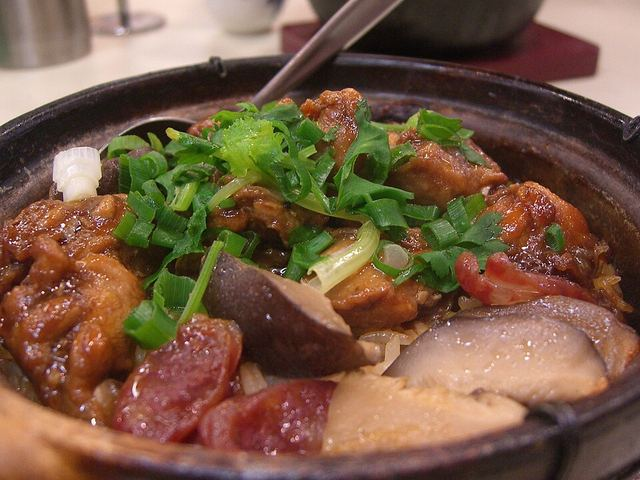
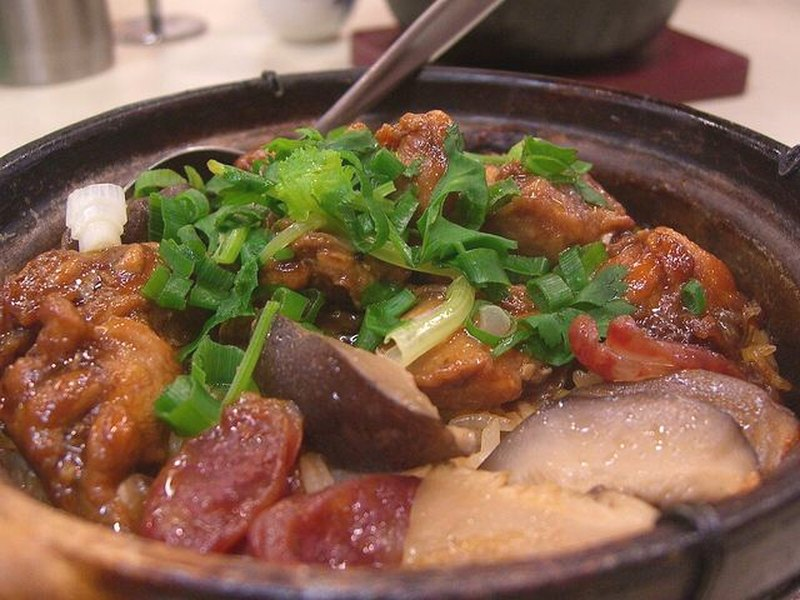
feat(img): 补 2 道菜照（洋葱炒猪肉 / 西红柿鸡蛋面），全部菜品图统一 800x600 4:3 暖调
- 17/20 有照片；洋葱炒猪肉 CC BY-SA 4.0 PattayaPatrol、西红柿鸡蛋面 CC BY-SA 3.0 Banej
- 已有 15 张统一裁切 + 轻微暖调（色 +7%、暖 5.5%），网格不再忽高忽低
- 套餐小拼图不再叠版权字，版权保留在详情页与 credits.json
- credits.json 同步
- SW v38

diff --git a/dish-photos.js b/dish-photos.js
@@ -9,14 +9,14 @@ window.DISH_PHOTO = (function(){
     "微波炉蒸蛋": {src:"img/dish/weibolu_zhengdan.jpg",credit:"tak.wing",license:"CC BY-SA 2.0",page:"https://commons.wikimedia.org/wiki/File:%E9%B8%A1%E8%9B%8B%E7%BE%B9%E9%85%8D%E9%87%8E%E7%94%9F%E8%8F%8C-%E4%BA%91%E5%8D%97%E6%98%86%E6%98%8E.jpg"},
     "可乐鸡翅": {src:"img/dish/kele_jichi.jpg",credit:"Pauloleong2002",license:"CC BY-SA 4.0",page:"https://commons.wikimedia.org/wiki/File:Home_made_chicken_wings_with_coca_cola.jpg"},
     "宫保鸡丁": {src:"img/dish/gongbao_jiding.jpg",credit:"Steven G. Johnson",license:"CC BY-SA 3.0",page:"https://commons.wikimedia.org/wiki/File:Kung-pao-shanghai.jpg"},
-    "洋葱炒猪肉": null,
+    "洋葱炒猪肉": {src:"img/dish/yangcong_chao_zhurou.jpg",credit:"PattayaPatrol",license:"CC BY-SA 4.0",page:"https://commons.wikimedia.org/wiki/File:DFC_2428_Sizzling_stir-fried_chicken_with_red_peppers_and_onions_served_alongside_a_mound_of_steamed_white_rice.jpg"},
     "辣椒炒肉": {src:"img/dish/lajiao_chao_rou.jpg",credit:"N509FZ",license:"CC BY-SA 4.0",page:"https://commons.wikimedia.org/wiki/File:Nongjia_Xiaochaorou_at_Xiangdu_Xiangwei_Restaurant,_Beijing_(20240125114913).jpg"},
     "青椒土豆炒肉": null,
     "香菇滑鸡": {src:"img/dish/xianggu_hua_ji.jpg",credit:"Alpha from Melbourne, Australia",license:"CC BY-SA 2.0",page:"https://commons.wikimedia.org/wiki/File:%E9%A6%99%E8%8F%87_%E8%85%8A%E8%82%A0_%E6%BB%91%E9%B8%A1_%E7%85%B2%E4%BB%94%E9%A5%AD_Chicken,_Shiitake_Mushroom_and_Chinese_Sausage_Hotpot_Rice_-_Soup,_Box_Hill_(2171035663).jpg"},
     "麻婆豆腐": {src:"img/dish/mapo_doufu.jpg",credit:"Sichuanfoodlover",license:"CC BY-SA 4.0",page:"https://commons.wikimedia.org/wiki/File:Authentic_Mapo_Tofu.jpg"},
     "西红柿鸡蛋汤": {src:"img/dish/xihongshi_jidan_tang.jpg",credit:"NNU-10-HanRongrong",license:"CC BY 3.0",page:"https://commons.wikimedia.org/wiki/File:Tomato_and_egg_soup.jpg"},
     "蛋炒饭": {src:"img/dish/dan_chao_fan.jpg",credit:"Euniceyeoh07",license:"CC BY-SA 4.0",page:"https://commons.wikimedia.org/wiki/File:Chinese_egg_fried_rice.jpg"},
-    "西红柿鸡蛋挂面": null,
+    "西红柿鸡蛋挂面": {src:"img/dish/xihongshi_jidan_guamian.jpg",credit:"Banej",license:"CC BY-SA 3.0",page:"https://commons.wikimedia.org/wiki/File:Chinese_Noodle_With_Tomato_and_Egg_Sauce_(cropped).jpg"},
     "凉拌豆腐": null,
     "洋葱炒鸡蛋": null,
     "炒茄子": {src:"img/dish/chao_qiezi.jpg",credit:"Wr120galen",license:"CC BY-SA 4.0",page:"https://commons.wikimedia.org/wiki/File:WechatIMG419.png"},

diff --git a/index.html b/index.html
@@ -816,6 +816,9 @@
   .rcc .ph.set2 .ic i{font-style:normal;font-size:10px;color:#8b8574}
   /* 卡片上再挂一个「套餐」小标是多余的，区块标题已经说了 */
   .rcc.set .setflag{display:none}
+
+  /* 套餐拼图太小，压角版权字会糊成一片：小图不叠字，版权统一在详情页和「图片来源」里给 */
+  .rcc.set .ph .cr{display:none}
 </style>
 </head>
 <body>

diff --git a/sw.js b/sw.js
@@ -1,4 +1,4 @@
-const CACHE = "fridge-decision-v37";
+const CACHE = "fridge-decision-v38";
 const ASSETS = ["./manifest.json", "./icon.svg"];
 
 self.addEventListener("install", e => {
